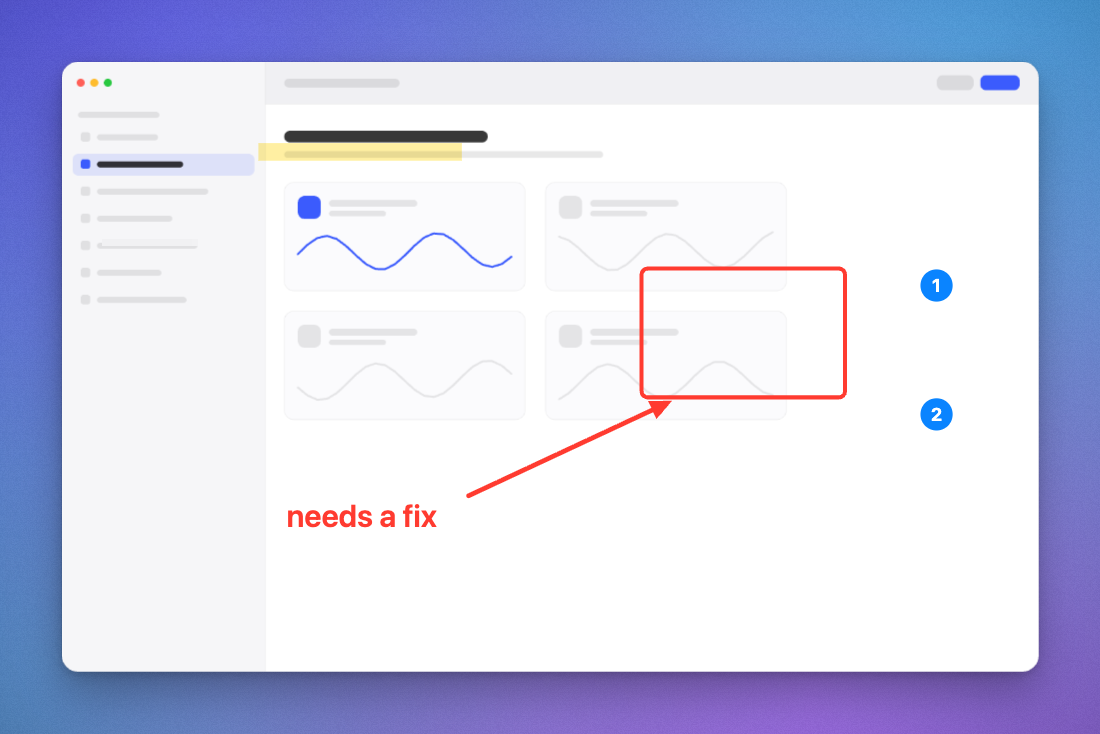
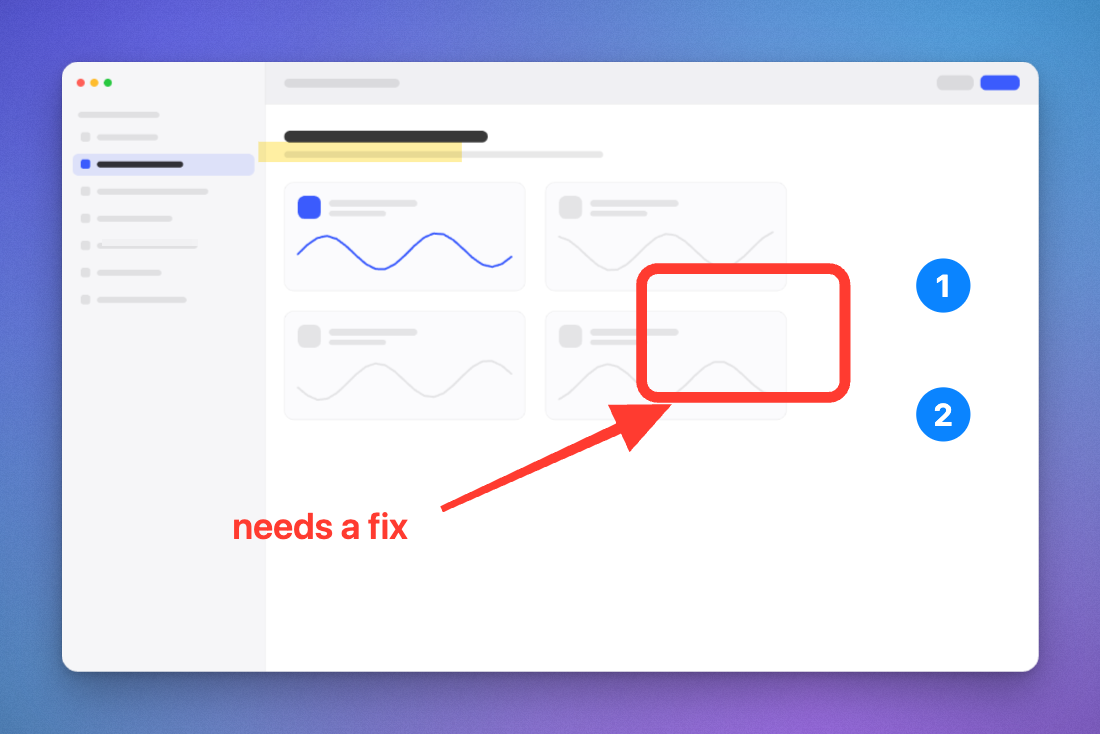
feat: make annotation stroke proportional and enlarge the arrowhead
Arrows were hard to see on anything but a small screenshot. The head
ratio was not the real cause: stroke widths were absolute pixels, so a
7px stroke is 0.5% of a 1376px capture where a marker-pen arrow wants
roughly 3%. The same preset that reads bold at 640px is a hairline at
5120px — the mistake padding already avoids.

Stroke weight is now a percentage of sqrt(image area) (0.4/0.8/1.4/2.4),
resolved to pixels once when a mark is created, so no drawing, hit-test
or bounds code had to change. Bold now measures 1.02-1.11% of image width
from 640x400 through 5120x2880, against 1.09% down to 0.24% before.

The arrow is redrawn as a single filled polygon instead of a stroked line
plus a triangle: the shaft tapers from tail to neck so direction reads
before the head registers, and the head spans 4.8x the shaft. Head length
and width clamp against the arrow's own length so a short drag still
looks like an arrow, and annoBounds shares that clamped geometry so the
selection box matches what is drawn — a 6px arrow now reports an 11x5
box rather than 73x67.

Type and badge sizes are recalibrated; the previous factors were tuned
against 2-12px strokes and were absurd once bold became ~16px.

Parity is unchanged by the new arrow: mean 0.208 to 0.218, max 45.5,
identical to the no-annotation baseline.

diff --git a/index.html b/index.html
@@ -598,7 +598,7 @@ const DEFAULTS = {
   ratio: "auto",
   scale: 1,       // export multiplier
   annoColor: "#FF3B30",
-  annoWidth: 4    // stroke width in source pixels
+  annoWidth: 1.4  // stroke weight as a % of sqrt(image area) — see STROKE_STEPS
 };
 
 /* Image-scoped document state. Deliberately NOT part of `state`: crop and
@@ -607,7 +607,12 @@ const DEFAULTS = {
    localStorage by accident. */
 const doc = { crop: null, annotations: [], selected: null };
 
-const STROKE_WIDTHS = [2, 4, 7, 12];
+/* Stroke weight is a PERCENTAGE of sqrt(image area), not an absolute pixel
+   count, for exactly the reason padding is (§2): 7px of stroke is bold on a
+   600px screenshot and invisible on a 2880px retina capture. Resolved to
+   pixels once, when a mark is created, so everything downstream keeps working
+   in plain source pixels. */
+const STROKE_STEPS = [0.4, 0.8, 1.4, 2.4];
 
 const RATIOS = [
   { id: "auto",    label: "Auto",    r: null },
@@ -734,7 +739,7 @@ function loadSettings() {
   if (RATIOS.some(r => r.id === saved.ratio)) state.ratio = saved.ratio;
   if (saved.scale === 1 || saved.scale === 2) state.scale = saved.scale;
   if (normHex(saved.annoColor)) state.annoColor = normHex(saved.annoColor);
-  if (STROKE_WIDTHS.indexOf(saved.annoWidth) >= 0) state.annoWidth = saved.annoWidth;
+  if (STROKE_STEPS.indexOf(saved.annoWidth) >= 0) state.annoWidth = saved.annoWidth;
 }
 
 let saveTimer = 0;
@@ -1058,14 +1063,28 @@ function getShadowSprite(card, layers, scale) {
 
 const ANNO_FONT = '-apple-system,BlinkMacSystemFont,"SF Pro Text",system-ui,sans-serif';
 
-function textFontSize(a) { return a.size || Math.max(14, a.width * 5); }
+/** Current stroke weight in source pixels, from the selected percentage step
+ *  and the size of the image being marked up. */
+function resolveStroke() {
+  return Math.max(2, Math.round((state.annoWidth / 100) * layout().unit));
+}
+
+/* Type and badge sizes derive from the stroke weight, recalibrated when stroke
+   became proportional: the old ×5 / ×3.4 factors were tuned against absolute
+   2–12px widths and produce absurd sizes now that a bold stroke is ~16px. */
+const defaultTextSize = w => Math.max(14, Math.round(w * 3.4));
+function textFontSize(a) { return a.size || defaultTextSize(a.width); }
 function annoFont(a) { return "600 " + textFontSize(a) + "px " + ANNO_FONT; }
 
 /** Bounding box of an annotation, in source pixels. */
 function annoBounds(a) {
   if (a.type === "arrow") {
-    return { x: Math.min(a.x1, a.x2), y: Math.min(a.y1, a.y2),
-             w: Math.abs(a.x2 - a.x1), h: Math.abs(a.y2 - a.y1) };
+    // Inflate by the head half-width so the selection box encloses the head
+    // rather than clipping through it — using the same clamped value the
+    // renderer uses, so a very short arrow doesn't claim a huge box.
+    const p = arrowMetrics(a).hw;
+    return { x: Math.min(a.x1, a.x2) - p, y: Math.min(a.y1, a.y2) - p,
+             w: Math.abs(a.x2 - a.x1) + p * 2, h: Math.abs(a.y2 - a.y1) + p * 2 };
   }
   if (a.type === "text") {
     const m = measureAnnoText(a);
@@ -1079,7 +1098,7 @@ function annoBounds(a) {
            w: Math.abs(a.w), h: Math.abs(a.h) };
 }
 
-function stepRadius(a) { return Math.max(12, a.width * 3.4); }
+function stepRadius(a) { return Math.max(12, a.width * 2.5); }
 
 let measureCanvas = null;
 function measureAnnoText(a) {
@@ -1093,28 +1112,50 @@ function measureAnnoText(a) {
   return { w: w + 4, h: lines.length * size * 1.2, lines: lines, size: size };
 }
 
-function drawArrow(g, a) {
+/** Drawn as a single filled polygon rather than a stroked line plus a
+ *  triangle: the shaft tapers from tail to head, which reads as direction
+ *  even before the eye registers the head, and the head is deliberately
+ *  oversized — a proportionally small head is the first thing to vanish when
+ *  a screenshot gets scaled down in a chat or a ticket. */
+const ARROW_HEAD_LEN = 5.4;   // × stroke
+const ARROW_HEAD_HALF = 2.4;  // × stroke (so the head spans 4.8× the shaft)
+const ARROW_TAIL_HALF = 0.30; // × stroke
+const ARROW_NECK_HALF = 0.52; // × stroke
+
+/** Clamped against the arrow's own length, so a short drag still looks like an
+ *  arrow instead of an arrowhead with a stub behind it. Shared with
+ *  annoBounds so selection matches what is drawn. */
+function arrowMetrics(a) {
   const dx = a.x2 - a.x1, dy = a.y2 - a.y1;
   const len = Math.hypot(dx, dy);
-  if (len < 0.5) return;
-  const ux = dx / len, uy = dy / len;
-  const head = Math.min(len, a.width * 4.6);
-  const halfW = a.width * 2.1;
-  // Stop the shaft short of the head so the tip stays sharp instead of the
-  // round line cap poking through it.
-  const sx = a.x2 - ux * head * 0.92, sy = a.y2 - uy * head * 0.92;
+  return {
+    len: len,
+    head: Math.min(len * 0.62, a.width * ARROW_HEAD_LEN),
+    hw: Math.min(a.width * ARROW_HEAD_HALF, len * 0.42)
+  };
+}
 
-  g.beginPath();
-  g.moveTo(a.x1, a.y1);
-  g.lineTo(sx, sy);
-  g.lineWidth = a.width;
-  g.stroke();
+function drawArrow(g, a) {
+  const m = arrowMetrics(a);
+  const len = m.len;
+  if (len < 0.5) return;
+  const ux = (a.x2 - a.x1) / len, uy = (a.y2 - a.y1) / len;
+  const nx = -uy, ny = ux;                       // unit normal
+
+  const head = m.head, hw = m.hw;
+  const t0 = a.width * ARROW_TAIL_HALF;
+  const t1 = a.width * ARROW_NECK_HALF;
 
   const bx = a.x2 - ux * head, by = a.y2 - uy * head;
+
   g.beginPath();
-  g.moveTo(a.x2, a.y2);
-  g.lineTo(bx - uy * halfW, by + ux * halfW);
-  g.lineTo(bx + uy * halfW, by - ux * halfW);
+  g.moveTo(a.x1 + nx * t0, a.y1 + ny * t0);
+  g.lineTo(bx + nx * t1,   by + ny * t1);
+  g.lineTo(bx + nx * hw,   by + ny * hw);
+  g.lineTo(a.x2, a.y2);
+  g.lineTo(bx - nx * hw,   by - ny * hw);
+  g.lineTo(bx - nx * t1,   by - ny * t1);
+  g.lineTo(a.x1 - nx * t0, a.y1 - ny * t0);
   g.closePath();
   g.fill();
 }
@@ -1555,7 +1596,7 @@ overlay.addEventListener("pointerdown", ev => {
   // drawing tools: create the shape now and mutate it live, so the preview is
   // the real renderer rather than a separate "in progress" code path.
   pushHistory();
-  const base = { id: ++annoSeq, color: state.annoColor, width: state.annoWidth };
+  const base = { id: ++annoSeq, color: state.annoColor, width: resolveStroke() };
   let a;
   if (tool === "arrow") a = Object.assign(base, { type: "arrow", x1: p.x, y1: p.y, x2: p.x, y2: p.y });
   else a = Object.assign(base, { type: tool, x: p.x, y: p.y, w: 0, h: 0 });
@@ -1750,10 +1791,11 @@ let editing = null;
 
 function placeText(p) {
   pushHistory();
+  const w = resolveStroke();
   const a = {
     id: ++annoSeq, type: "text", x: p.x, y: p.y,
-    text: "", color: state.annoColor, width: state.annoWidth,
-    size: Math.max(14, state.annoWidth * 5)
+    text: "", color: state.annoColor, width: w,
+    size: defaultTextSize(w)
   };
   doc.annotations.push(a);
   doc.selected = a.id;
@@ -1812,7 +1854,7 @@ function placeStep(p) {
   const n = doc.annotations.filter(a => a.type === "step").length + 1;
   doc.annotations.push({
     id: ++annoSeq, type: "step", x: p.x, y: p.y, n: n,
-    color: state.annoColor, width: state.annoWidth
+    color: state.annoColor, width: resolveStroke()
   });
   invalidate();
 }
@@ -1898,17 +1940,22 @@ function buildToolbar() {
 
   const widths = document.createElement("div");
   widths.className = "tool-width";
-  STROKE_WIDTHS.forEach(w => {
+  const WIDTH_NAMES = ["Fine", "Regular", "Bold", "Heavy"];
+  STROKE_STEPS.forEach((pct, i) => {
     const b = document.createElement("button");
     b.type = "button";
-    b.dataset.width = String(w);
-    b.title = "Stroke " + w;
-    b.setAttribute("aria-label", "Stroke width " + w);
-    b.innerHTML = '<i style="height:' + Math.max(2, Math.round(w * .9)) + 'px"></i>';
+    b.dataset.width = String(pct);
+    b.title = WIDTH_NAMES[i] + " stroke";
+    b.setAttribute("aria-label", WIDTH_NAMES[i] + " stroke");
+    b.innerHTML = '<i style="height:' + Math.max(2, Math.round(pct * 3.4)) + 'px"></i>';
     b.addEventListener("click", () => {
-      state.annoWidth = w;
+      state.annoWidth = pct;
       const sel = selectedAnno();
-      if (sel) { sel.width = w; if (sel.type === "text") sel.size = Math.max(14, w * 5); invalidate(); }
+      if (sel) {
+        sel.width = resolveStroke();
+        if (sel.type === "text") sel.size = defaultTextSize(sel.width);
+        invalidate();
+      }
       saveSettings();
       syncToolbar();
     });
@@ -1938,7 +1985,7 @@ function syncToolbar() {
   toolbar.querySelectorAll("[data-tool]").forEach(b =>
     b.setAttribute("aria-pressed", String(b.dataset.tool === tool)));
   toolbar.querySelectorAll("[data-width]").forEach(b =>
-    b.setAttribute("aria-pressed", String(parseInt(b.dataset.width, 10) === state.annoWidth)));
+    b.setAttribute("aria-pressed", String(parseFloat(b.dataset.width) === state.annoWidth)));
   const ci = toolbar.querySelector(".tool-color input");
   if (ci && document.activeElement !== ci) ci.value = state.annoColor.toLowerCase();
   toolbar.style.setProperty("--anno-color", state.annoColor);

diff --git a/docs/plan.md b/docs/plan.md
@@ -224,6 +224,28 @@ blocks get bigger. Redaction therefore preserves parity by construction, like th
 It is applied after the card and before the annotation layer, by sampling the already-composited
 canvas down to a `cols × rows` scratch and drawing it back with smoothing off.
 
+### Stroke weight is proportional, for the same reason padding is
+
+The first version used absolute stroke widths (2/4/7/12 px). On a 1376px screenshot a 7px arrow
+is 0.5% of the image; the marker-pen arrows people expect are nearer 3%. The same preset that
+looks bold on a 640px capture is a hairline on a 5120px one — the identical mistake §2 avoids
+for padding.
+
+So `state.annoWidth` holds a **percentage of `sqrt(image area)`** (0.4 / 0.8 / 1.4 / 2.4), and is
+resolved to pixels once, at the moment a mark is created. Everything downstream keeps working in
+plain source pixels, so no drawing, hit-testing or bounds code had to change. Measured across
+640×400 → 5120×2880, "Bold" now lands at 1.02–1.11% of image width every time.
+
+Type and badge sizes derive from the stroke, and had to be recalibrated — the old ×5 and ×3.4
+factors were tuned against 2–12px strokes and produced absurd results once a bold stroke became
+~16px.
+
+The arrow is a single filled polygon rather than a stroked line plus a triangle: the shaft tapers
+from tail to neck, which reads as direction before the eye even registers the head, and the head
+spans 4.8× the shaft. Head length and width are clamped against the arrow's own length so a short
+drag still looks like an arrow, and `annoBounds` uses the same clamped geometry so the selection
+box matches what is actually drawn.
+
 ### What is and isn't persisted
 
 Tool colour and stroke width persist. Crop and annotations do **not** — they belong to an image,
@@ -297,3 +319,11 @@ scale-invariant, so it is turned off to compare renders. Run against the real pa
     shadow still runs at the 120fps display cap, worst frame ≈ 11ms.
 18. **Overlays cannot leak.** Crop handles, thirds guides and selection chrome are drawn on a
     separate canvas; the export path never calls `drawOverlay()`.
+19. **Proportional stroke holds across sources.** "Bold" measures 1.02–1.11% of image width on
+    640×400, 1376×756, 1440×900, 2880×1800 and 5120×2880 — the absolute-pixel version ranged
+    from 1.09% down to 0.24% over the same span.
+20. **The rebuilt arrow is perfectly scale-invariant.** Adding it moves the mean from 0.208 to
+    0.218 and leaves the max at 45.5 — *identical* to the no-annotation baseline. Drawing it as
+    one filled polygon removed the stroke/fill seam the previous two-part arrow had.
+21. **Arrow geometry degrades gracefully.** At lengths 6, 30, 200 and 600 px the head stays
+    inside the arrow and the selection box tracks the drawn size (6px → 11×5, not 73×67).

diff --git a/README.md b/README.md
@@ -47,6 +47,12 @@ The tool strip sits under the canvas. Pick a tool, then drag once.
 
 <kbd>⌘Z</kbd> / <kbd>⇧⌘Z</kbd> undo and redo.
 
+**Stroke weight is proportional to the image**, not an absolute pixel count — the four steps run
+Fine, Regular, Bold and Heavy. A fixed 7px stroke is bold on a 640px screenshot and a hairline on
+a 2880px retina capture; as a percentage of the image, Bold stays ~1% of the width whatever you
+drop in. Arrows use an oversized head on a tapered shaft, because a proportionally small head is
+the first thing to disappear once a screenshot is scaled down in a chat or a ticket.
+
 **Cropping is non-destructive.** The full bitmap is kept, so you can re-crop or reset at any
 time, and annotations stay pinned to the image features they point at rather than drifting.
 
